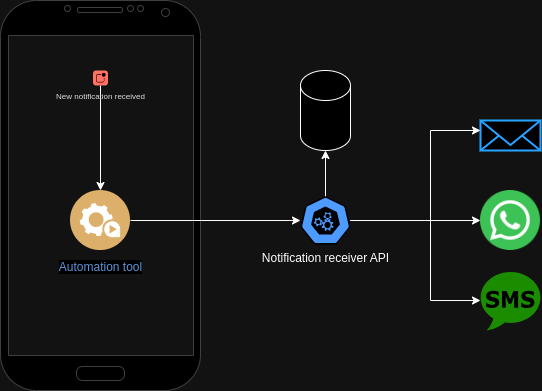
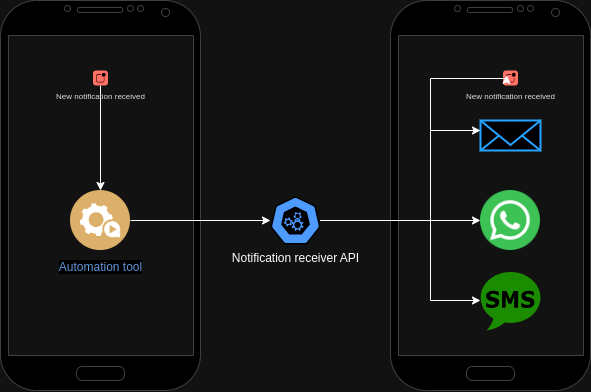
readme

diff --git a/README.md b/README.md
@@ -7,12 +7,10 @@ Project made to centralize notification propagation workflow
 - Using an automation app, I receive the notifications and send it to this API
 This is made using toll like IFTTT or Macrodroid
 
-- The service filters the notifications of interest and re-send it via email, SMS or whatsapp
+- The service filters the notifications of interest and re-send it via Notification
     - One Signal: Google Android (FCM) Configuration
     - Gen Firebase https://documentation.onesignal.com/docs/android-firebase-credentials
     - Configure Android SDK https://documentation.onesignal.com/docs/android-sdk-setup
 
 
-- The notification is stored in a database for future analysis
-
-
+- TBD: The notification are going to be stored in a database for future analysis
